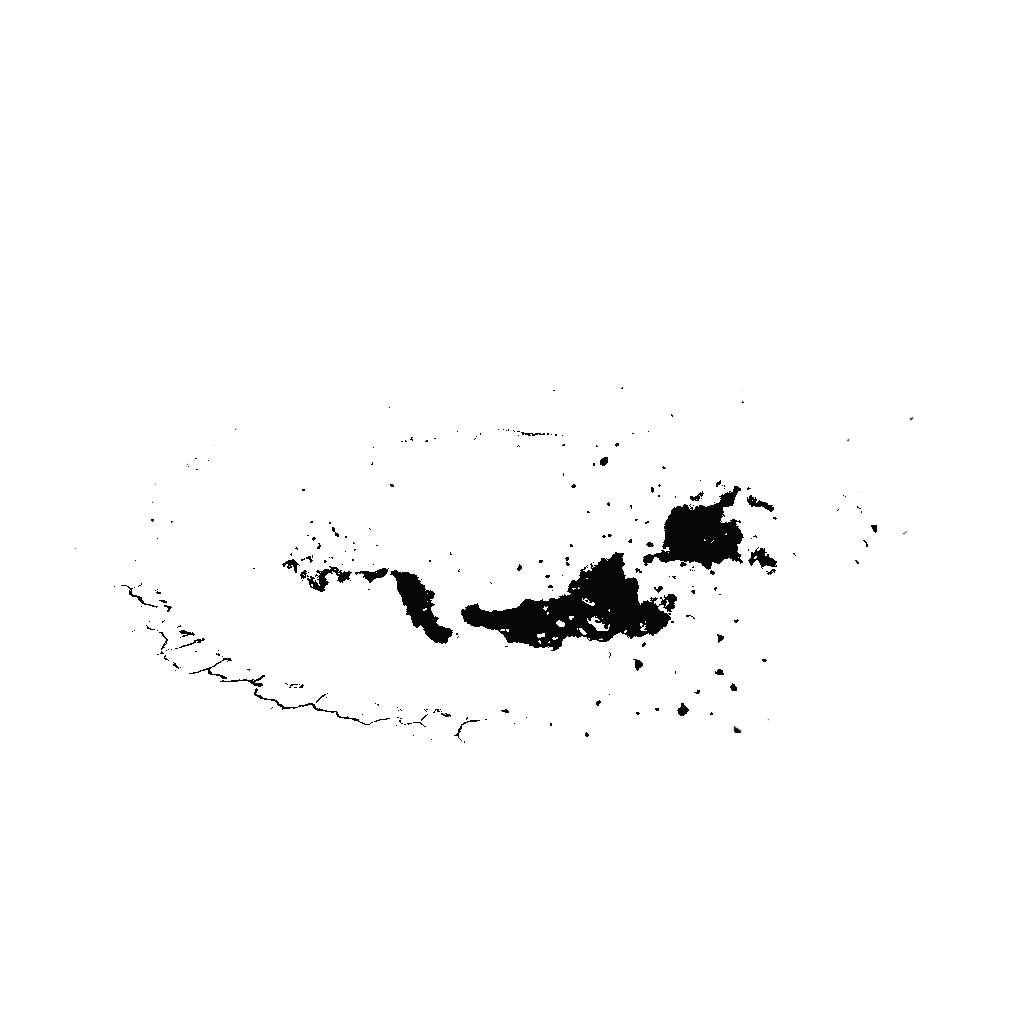
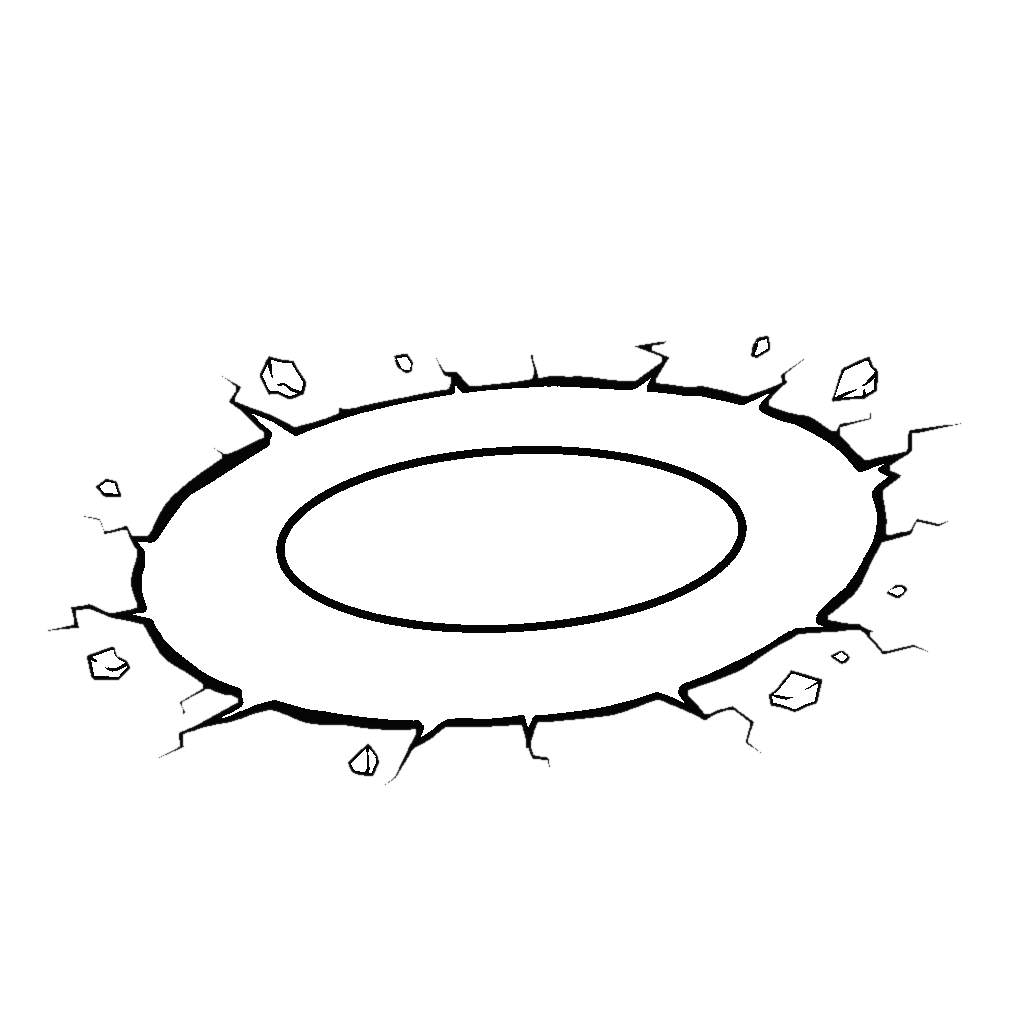
Rehacer las 6 texturas VFX en cel-shading (DBFZ/MvC), no fotorreal
La investigación de referencias profesionales (Dragon Ball FighterZ,
Marvel vs Capcom 3, Street Fighter 6) mostró que ninguna usa
fotorrealismo: todas son cel-shading — bandas de color planas con
borde duro, tinta negra gruesa, luz dura sin degradé suave. Es lo
opuesto al render fotorrealista de hoy temprano, así que se
reemplazan las 6 texturas otra vez, esta vez en ese lenguaje.

De paso, impacto y orbe —los dos momentos más visibles del set—
llevan motivo de trading en vez de energía genérica: impacto es un
estallido de velas japonesas verdes/rojas en vez de rayos, orbe es
una esfera con una línea de precio en zigzag orbitándola. tajo,
onda, humo y esquirlas quedan como energía cel-shaded genérica para
no saturar de iconografía.

Verificado el pipeline separar-vfx.py contra las 6 antes de instalar
(compuesto con tinte de equipo sobre fondo oscuro) — separa bien
salvo `onda`, cuyo interior blanco no está conectado al borde de la
imagen y queda relleno sólido en vez de hueco; se deja así porque
lee bien como disco de energía, no como error.

Claude-Session: https://claude.ai/code/session_01LA56Djix2JMX9isxBcfBkY

diff --git a/src/render/vfxSprites.ts b/src/render/vfxSprites.ts
@@ -28,17 +28,17 @@ const RAFAGAS = 10;
  * a las otras.
  */
 /**
- * Bajaron dos veces. Primero ~35% (`impacto` de 2.6 a 1.7, `onda` de 3.2 a
- * 2.1, etc.) porque el burst tapaba al personaje entero en un celular en
- * vertical. Después, al pasar las seis texturas a render fotorrealista
- * (20/08/2026), bajaron de nuevo: el arte plano de antes dejaba mucho margen
- * transparente alrededor del núcleo —era un relleno con degradé simple—,
- * pero el render realista llena el cuadrado casi entero (rayos, humo y
- * esquirlas que llegan hasta el borde de los 1024 px), así que el MISMO
- * `ESCALA` de antes se ve bastante más grande en pantalla con el arte nuevo,
- * aunque el número no haya cambiado. El personaje sigue arriba de todas las
- * capas de VFX (ver `game.ts`), así que esto es puramente el tamaño de la
- * mancha.
+ * Bajaron dos veces. Primero ~35% porque el burst tapaba al personaje entero
+ * en un celular en vertical. Después, al pasar las seis texturas primero a
+ * render fotorrealista y después (mismo día, 20/08/2026) a cel-shading estilo
+ * Dragon Ball FighterZ / Marvel vs Capcom, bajaron de nuevo: el arte plano
+ * original dejaba mucho margen transparente alrededor del núcleo, pero tanto
+ * el fotorrealismo como el cel-shading llenan el cuadrado casi entero (rayos,
+ * humo y esquirlas hasta el borde de los 1024 px), así que el MISMO `ESCALA`
+ * de antes se ve bastante más grande en pantalla con cualquiera de los dos
+ * artes nuevos, aunque el número no haya cambiado. El personaje sigue arriba
+ * de todas las capas de VFX (ver `game.ts`), así que esto es puramente el
+ * tamaño de la mancha.
  */
 const ESCALA: Record<VfxNombre, number> = {
   impacto: 1.2,
